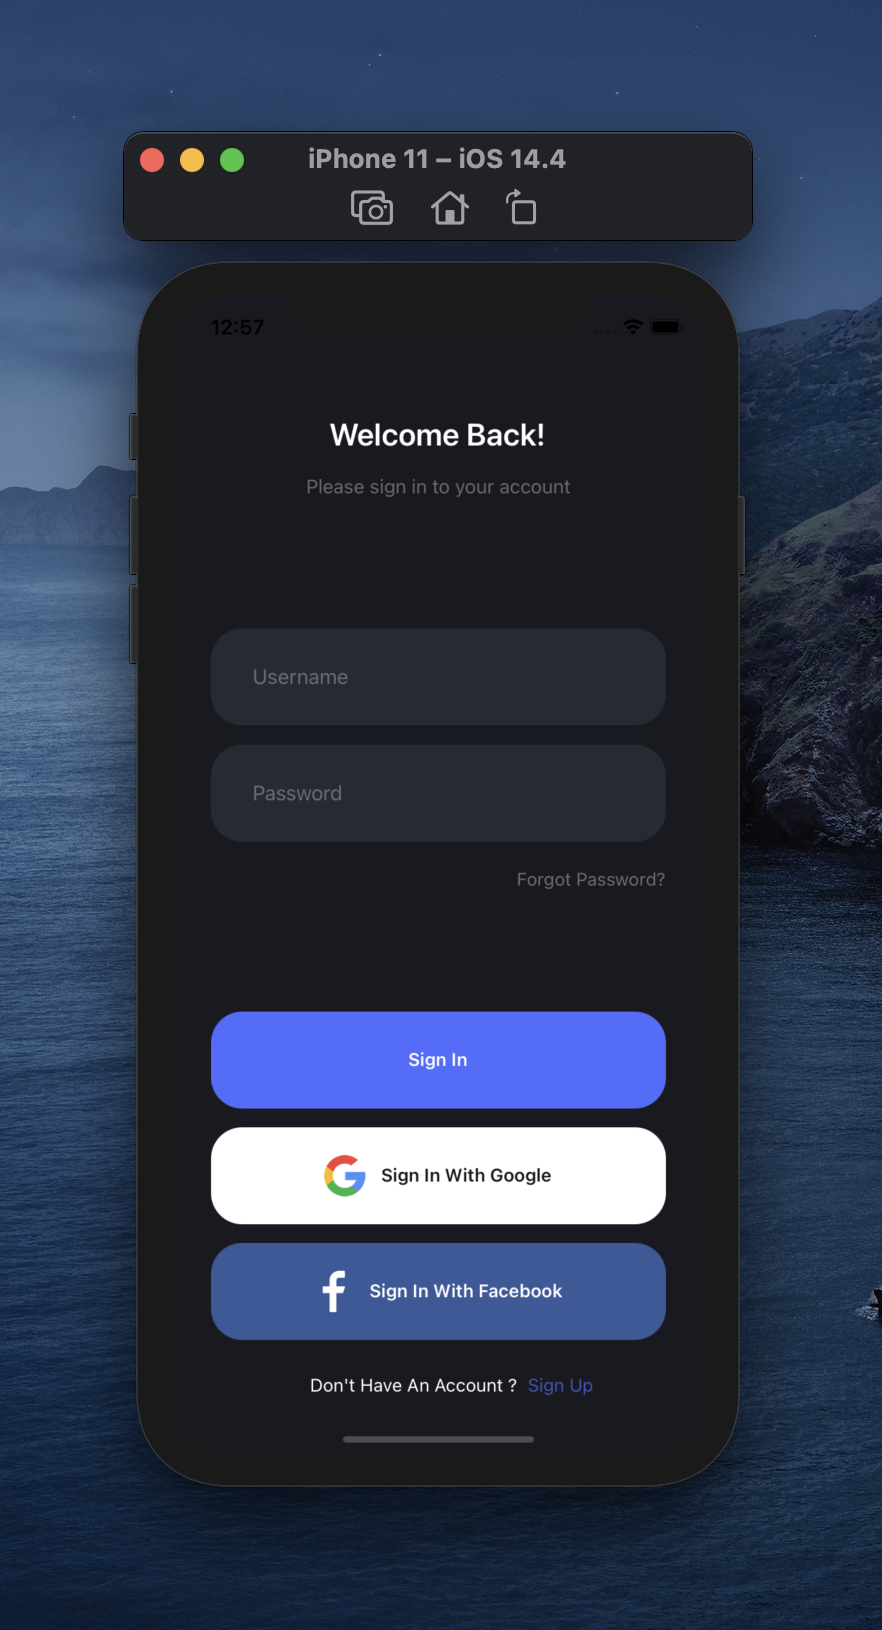
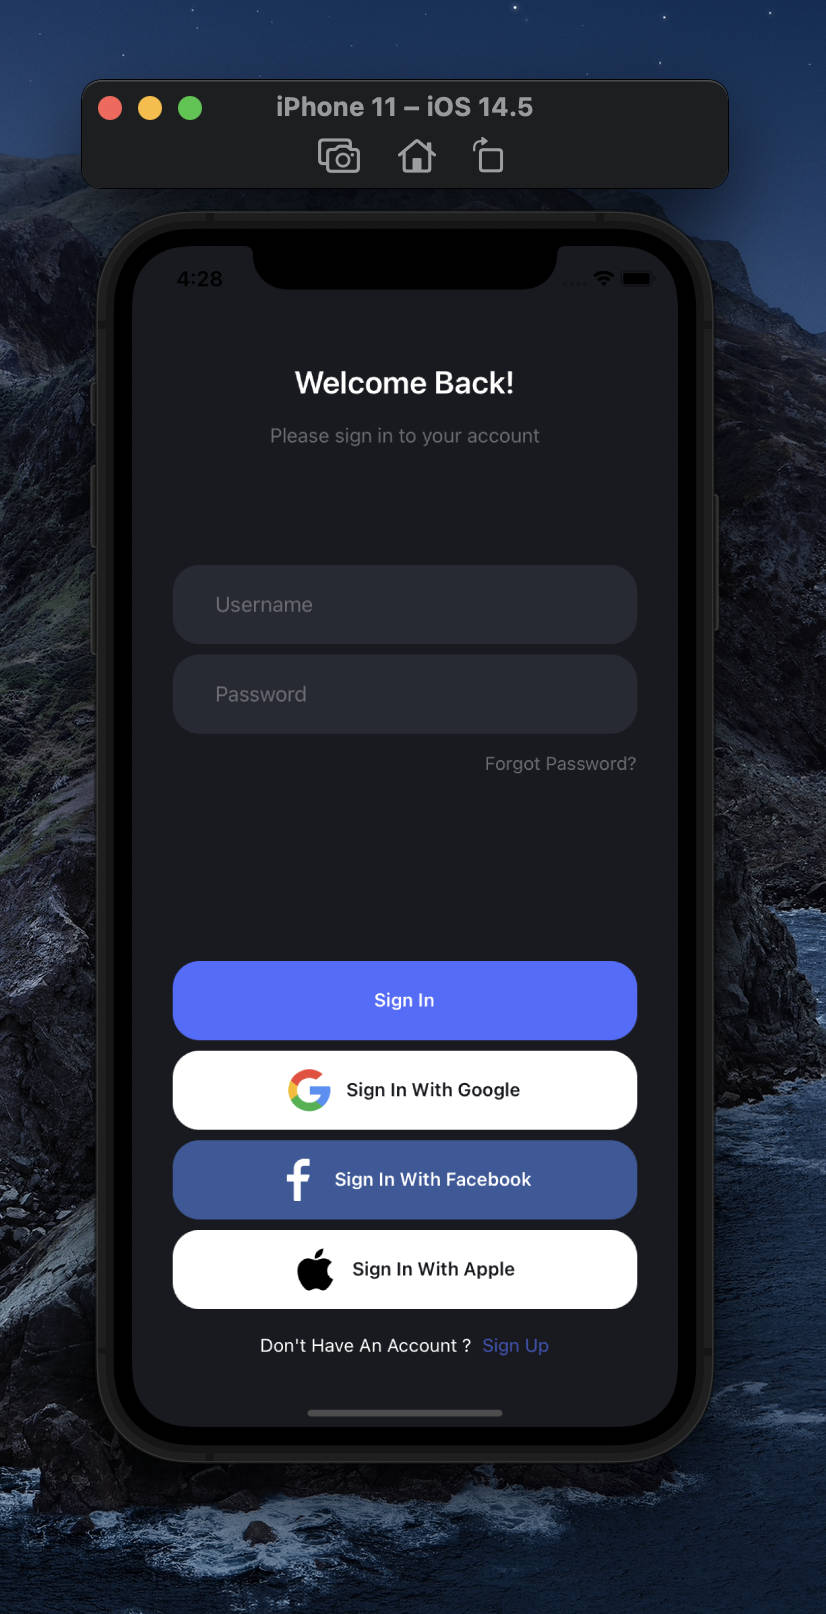
new version: 0.0.8

diff --git a/lib/DarkLoginScreen.style.ts b/lib/DarkLoginScreen.style.ts
@@ -31,16 +31,24 @@ interface Style {
   signUpButtonStyle: ViewStyle;
   signUpTextStyle: TextStyle;
   signUpButtonTextStyle: TextStyle;
+  appleButtonStyle: ViewStyle;
+  appleButtonTextStyle: TextStyle;
 }
 
 const calculateMarginTop = (numberOfButton) => {
-  if (numberOfButton === 1) return ScreenHeight * 0.3;
-  else if (numberOfButton === 2) return ScreenHeight * 0.2;
+  if (numberOfButton === 1) return ScreenHeight * 0.35;
+  else if (numberOfButton === 2) return ScreenHeight * 0.25;
   else if (numberOfButton === 3)
+    return isIPhoneNotchFamily()
+      ? ScreenHeight * 0.22
+      : isAndroid
+      ? ScreenHeight * 0.2
+      : ScreenHeight * 0.13;
+  else if (numberOfButton === 4)
     return isIPhoneNotchFamily()
       ? ScreenHeight * 0.15
       : isAndroid
-      ? ScreenHeight * 0.15
+      ? ScreenHeight * 0.13
       : ScreenHeight * 0.08;
 };
 
@@ -55,7 +63,7 @@ export default StyleSheet.create<Style>({
     flex: 1,
   },
   headerContainer: {
-    height: ScreenHeight * 0.3,
+    height: ScreenHeight * 0.27,
     justifyContent: 'center',
     alignItems: 'center',
   },
@@ -72,13 +80,13 @@ export default StyleSheet.create<Style>({
     width: ScreenWidth * 0.85,
   },
   textInputStyle: {
-    height: isIPhoneNotchFamily() ? 70 : 60,
+    height: isIPhoneNotchFamily() ? 60 : 55,
     marginBottom: 8,
     fontSize: 16,
     paddingLeft: 32,
     backgroundColor: '#262A34',
     color: '#fff',
-    borderRadius: isIPhoneNotchFamily() ? 24 : 20,
+    borderRadius: isIPhoneNotchFamily() ? 20 : 16,
   },
   forgotPasswordTextStyle: {
     color: '#6C6D72',
@@ -91,8 +99,8 @@ export default StyleSheet.create<Style>({
   signInButtonStyle: {
     backgroundColor: '#5467FF',
     width: ScreenWidth * 0.85,
-    height: isIPhoneNotchFamily() ? 70 : 60,
-    borderRadius: isIPhoneNotchFamily() ? 24 : 20,
+    height: isIPhoneNotchFamily() ? 60 : 55,
+    borderRadius: isIPhoneNotchFamily() ? 20 : 16,
     justifyContent: 'center',
     alignItems: 'center',
   },
@@ -108,9 +116,9 @@ export default StyleSheet.create<Style>({
   googleButtonStyle: {
     backgroundColor: '#FFFFFF',
     width: ScreenWidth * 0.85,
-    height: isIPhoneNotchFamily() ? 70 : 60,
+    height: isIPhoneNotchFamily() ? 60 : 55,
     marginTop: 8,
-    borderRadius: isIPhoneNotchFamily() ? 24 : 20,
+    borderRadius: isIPhoneNotchFamily() ? 20 : 16,
     justifyContent: 'center',
     alignItems: 'center',
     flexDirection: 'row',
@@ -122,9 +130,9 @@ export default StyleSheet.create<Style>({
   facebookButtonStyle: {
     backgroundColor: '#3A579B',
     width: ScreenWidth * 0.85,
-    height: isIPhoneNotchFamily() ? 70 : 60,
+    height: isIPhoneNotchFamily() ? 60 : 55,
     marginTop: 8,
-    borderRadius: isIPhoneNotchFamily() ? 24 : 20,
+    borderRadius: isIPhoneNotchFamily() ? 20 : 16,
     justifyContent: 'center',
     alignItems: 'center',
     flexDirection: 'row',
@@ -152,5 +160,19 @@ export default StyleSheet.create<Style>({
   signUpButtonTextStyle: {
     fontSize: 14,
     color: '#4251BC',
+  },
+  appleButtonStyle: {
+    backgroundColor: '#FFFFFF',
+    width: ScreenWidth * 0.85,
+    height: isIPhoneNotchFamily() ? 60 : 55,
+    marginTop: 8,
+    borderRadius: isIPhoneNotchFamily() ? 20 : 16,
+    justifyContent: 'center',
+    alignItems: 'center',
+    flexDirection: 'row',
+  },
+  appleButtonTextStyle: {
+    color: '#181A1F',
+    fontWeight: '600',
   },
 });

diff --git a/lib/DarkLoginScreen.tsx b/lib/DarkLoginScreen.tsx
@@ -43,6 +43,10 @@ interface DarkLoginScreenProps {
   signInQuestionText?: string;
   signInQuestionTextStyle?: TextStyle;
   enableForgotPassword?: boolean;
+  enableAppleLogin?: boolean;
+  appleButtonStyle?: ViewStyle;
+  appleButtonText?: string;
+  appleButtonTextStyle?: TextStyle;
   usernameChangeText?: (username: string) => void;
   passwordChangeText?: (password: string) => void;
   handleSignInButton?: () => void;
@@ -54,6 +58,7 @@ interface DarkLoginScreenProps {
   emailOnChange?: (email: string) => void;
   handleSignUp?: () => void;
   handleSignUpButton?: () => void;
+  handleAppleLogIn?: () => void;
 }
 
 const DarkLoginScreen = (props: DarkLoginScreenProps) => {
@@ -85,6 +90,10 @@ const DarkLoginScreen = (props: DarkLoginScreenProps) => {
     signUpTextStyle,
     signUpButtonTextStyle,
     enableForgotPassword = true,
+    enableAppleLogin = true,
+    appleButtonStyle,
+    appleButtonText = 'Sign In With Apple',
+    appleButtonTextStyle,
     usernameChangeText,
     passwordChangeText,
     handleSignInButton,
@@ -92,6 +101,7 @@ const DarkLoginScreen = (props: DarkLoginScreenProps) => {
     handleFacebookLogIn,
     handleForgotPassword,
     handleSignUp,
+    handleAppleLogIn,
   } = props;
 
   const [newAccount, setNewAccount] = React.useState<boolean | undefined>(
@@ -143,6 +153,7 @@ const DarkLoginScreen = (props: DarkLoginScreenProps) => {
     let numberOfButton: number = 1;
     if (enableGoogleLogin) numberOfButton += 1;
     if (enableFacebookLogin) numberOfButton += 1;
+    if (enableAppleLogin) numberOfButton += 1;
     return (
       <View style={_bottomButtonContainer(numberOfButton)}>
         <TouchableOpacity
@@ -176,6 +187,19 @@ const DarkLoginScreen = (props: DarkLoginScreenProps) => {
             <Text
               style={[styles.facebookButtonTextStyle, facebookButtonTextStyle]}>
               {facebookButtonText}
+            </Text>
+          </TouchableOpacity>
+        )}
+        {enableAppleLogin && (
+          <TouchableOpacity
+            style={[styles.appleButtonStyle, appleButtonStyle]}
+            onPress={handleAppleLogIn}>
+            <Image
+              source={require('./Logo/apple.png')}
+              style={styles.logoImageStyle}
+            />
+            <Text style={[styles.appleButtonTextStyle, appleButtonTextStyle]}>
+              {appleButtonText}
             </Text>
           </TouchableOpacity>
         )}

diff --git a/lib/screens/SignUpScreen.style.ts b/lib/screens/SignUpScreen.style.ts
@@ -35,7 +35,7 @@ export default StyleSheet.create<Style>({
     flex: 1,
   },
   headerContainer: {
-    height: ScreenHeight * 0.3,
+    height: ScreenHeight * 0.27,
     justifyContent: 'center',
     alignItems: 'center',
   },
@@ -52,16 +52,20 @@ export default StyleSheet.create<Style>({
     width: ScreenWidth * 0.85,
   },
   textInputStyle: {
-    height: isIPhoneNotchFamily() ? 70 : 60,
+    height: isIPhoneNotchFamily() ? 60 : 55,
     marginBottom: 8,
     fontSize: 16,
     paddingLeft: 32,
     backgroundColor: '#262A34',
     color: '#fff',
-    borderRadius: isIPhoneNotchFamily() ? 24 : 20,
+    borderRadius: isIPhoneNotchFamily() ? 20 : 16,
   },
   signUpButtonContainer: {
-    marginTop: isAndroid ? ScreenHeight * 0.25 : ScreenHeight * 0.22,
+    marginTop: isIPhoneNotchFamily()
+      ? ScreenHeight * 0.34
+      : isAndroid
+      ? ScreenHeight * 0.32
+      : ScreenHeight * 0.27,
     width: ScreenWidth * 0.9,
     justifyContent: 'center',
     alignItems: 'center',
@@ -70,8 +74,8 @@ export default StyleSheet.create<Style>({
   signUpButtonStyle: {
     backgroundColor: '#5467FF',
     width: ScreenWidth * 0.85,
-    height: isIPhoneNotchFamily() ? 70 : 60,
-    borderRadius: isIPhoneNotchFamily() ? 24 : 20,
+    height: isIPhoneNotchFamily() ? 60 : 55,
+    borderRadius: isIPhoneNotchFamily() ? 20 : 16,
     justifyContent: 'center',
     alignItems: 'center',
   },

diff --git a/example/App.tsx b/example/App.tsx
@@ -1,12 +1,9 @@
 import React from 'react';
-import DarkLoginScreen from './lib/DarkLoginScreen';
+import DarkLoginScreen from 'react-native-dark-login-screen';
 
 const App = () => {
   return (
     <DarkLoginScreen
-      // enableAppleLogin={false}
-      // enableGoogleLogin={false}
-      // enableFacebookLogin={false}
       handleSignInButton={() => console.log('sign in')}
       handleSignUpButton={() => console.log('sign up')}
       fullNameOnChange={(value: string) => console.log('full name', value)}

diff --git a/README.md b/README.md
@@ -87,8 +87,12 @@ import DarkLoginScreen from "react-native-dark-login-screen";
 | facebookButtonStyle     | ViewStyle |            default             | set or override the style object for the facebook button style                           |
 | facebookButtonTextStyle | TextStyle |            default             | set or override the style object for the facebook button text style                      |
 | facebookButtonText      |  string   |     Sign In With Facebook      | change the facebook button text                                                          |
+| appleButtonStyle        | ViewStyle |            default             | set or override the style object for the apple button style                              |
+| appleButtonTextStyle    | TextStyle |            default             | set or override the style object for the apple button text style                         |
+| appleButtonText         |  string   |       Sign In With Apple       | change the apple button text                                                             |
 | enableGoogleLogin       |  boolean  |              true              | enable the google login button                                                           |
 | enableFacebookLogin     |  boolean  |              true              | enable the facebook login button                                                         |
+| enableAppleLogin        |  boolean  |              true              | enable the apple login button                                                            |
 | signUpQuestionText      |  string   |    Don't Have An Account ?     | change the question to sign up screen                                                    |
 | signUpButtonText        |  string   |            Sign Up             | change the sign up button text                                                           |
 | signUpTextStyle         | TextStyle |            default             | change the sign up button style                                                          |
@@ -97,6 +101,7 @@ import DarkLoginScreen from "react-native-dark-login-screen";
 | passwordChangeText      | function  |           undefined            | handle the passwordChangeText function                                                   |
 | handleSignInButton      | function  |           undefined            | handle Sign In button is pressed                                                         |
 | handleGoogleLogIn       | function  |           undefined            | handle handleGoogleLogIn button is pressed                                               |
+| handleAppleLogIn        | function  |           undefined            | handle handleAppleLogIn button is pressed                                                |
 | handleFacebookLogIn     | function  |           undefined            | handle handleFacebookLogIn button is pressed                                             |
 | handleForgotPassword    | function  |           undefined            | handle handleForgotPassword button is pressed                                            |
 | handleSignUp            | function  |           undefined            | handle handleSignUp button is pressed for navigation to sign up screen                   |
